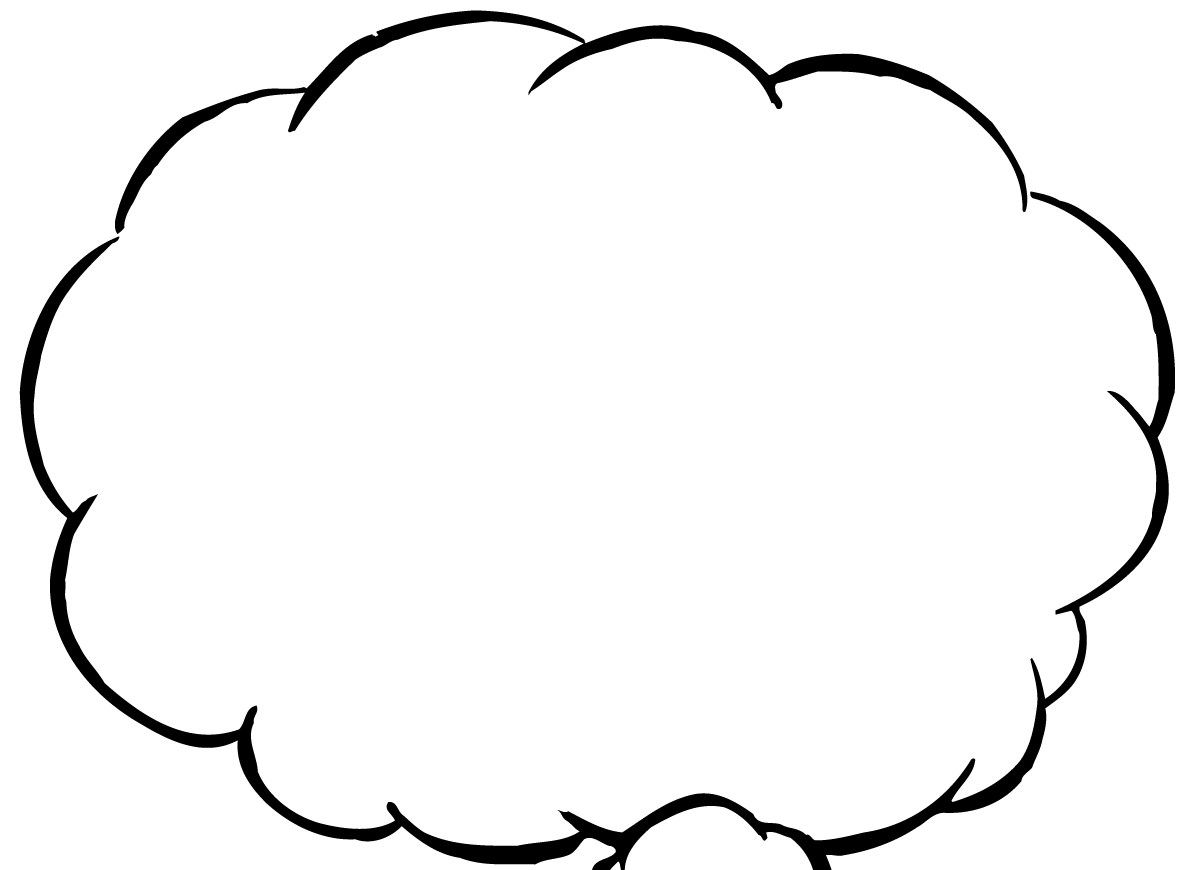
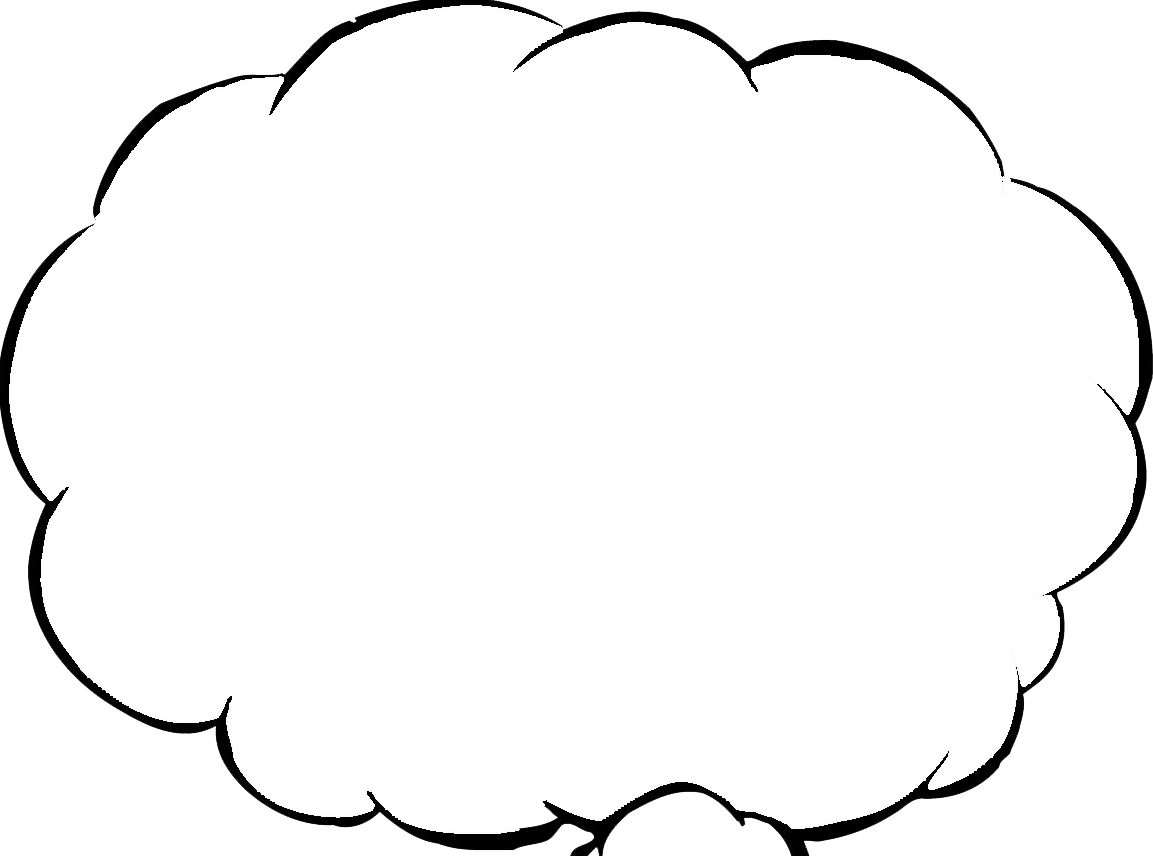
feat: adds floating for thought bubbles, adds transparent thought bubble for wide image

diff --git a/public/assets/styles/style.css b/public/assets/styles/style.css
@@ -122,7 +122,7 @@ img {
     flex-direction: column;
     justify-content: center;
     align-items: center;
-    background-image: url('../images/dream-bubble.png');
+    background-image: url('../images/dream-bubble2.png');
     background-size: cover;
     background-repeat: no-repeat;
     background-position: center;
@@ -181,4 +181,25 @@ img {
 
 .round-left{
     border-radius: 15px 0px 0px 15px;
+}
+
+@keyframes floating {
+    0% { transform: translate(0,  0px); }
+    50%  { transform: translate(0, 10px); }
+    100%   { transform: translate(0, -0px); }    
+}
+
+.floating {  
+    animation-name: floating;
+    animation-duration: 3s;
+    animation-iteration-count: infinite;
+    animation-timing-function: ease-in-out;
+}
+
+#tv-and-movies {
+    animation-delay: 0.5s;
+}
+
+#games {
+    animation-delay: 0.25s;
 }

diff --git a/client/components/AboutMe1400.js b/client/components/AboutMe1400.js
@@ -92,6 +92,7 @@ export default ({setOpenModal, setModalData}) => {
                     type={TYPES.WIDE}
                     bottom={.4 * headHeightPerc}
                     left={headWidthPerc + (2 * IMAGE_SIZES_PERCS[SIZES.MD])}
+                    id='games'
                 />
                 <ThoughtBubble 
                     size={SIZES.MD} 
@@ -99,6 +100,7 @@ export default ({setOpenModal, setModalData}) => {
                     bottom={1.3 * headHeightPerc}
                     left={headWidthPerc + (2.5 * IMAGE_SIZES_PERCS[SIZES.MD])}
                     onClick={() => handleClick(getMedia, 'media')}
+                    id='tv-and-movies'
                 />
         </>
     )

diff --git a/client/components/ThoughtBubble.js b/client/components/ThoughtBubble.js
@@ -1,5 +1,5 @@
 import React from 'react';
-import { IMAGE_SIZES, getImgPath } from '../reducers/constants';
+import { IMAGE_SIZES, getImgPath, CONSTS } from '../reducers/constants';
 
 export default (props) => {
     const { size, type, onClick, bottom, left } = props;
@@ -10,7 +10,8 @@ export default (props) => {
 
     return (
         <img 
-            className={`image-container-${size}`}
+            id={props.id ? props.id : ''}
+            className={`image-container-${size} ${type === CONSTS.TYPES.WIDE ? 'floating':''}`}
             src={imgSrc} 
             onClick={onClick}
             style= {{
